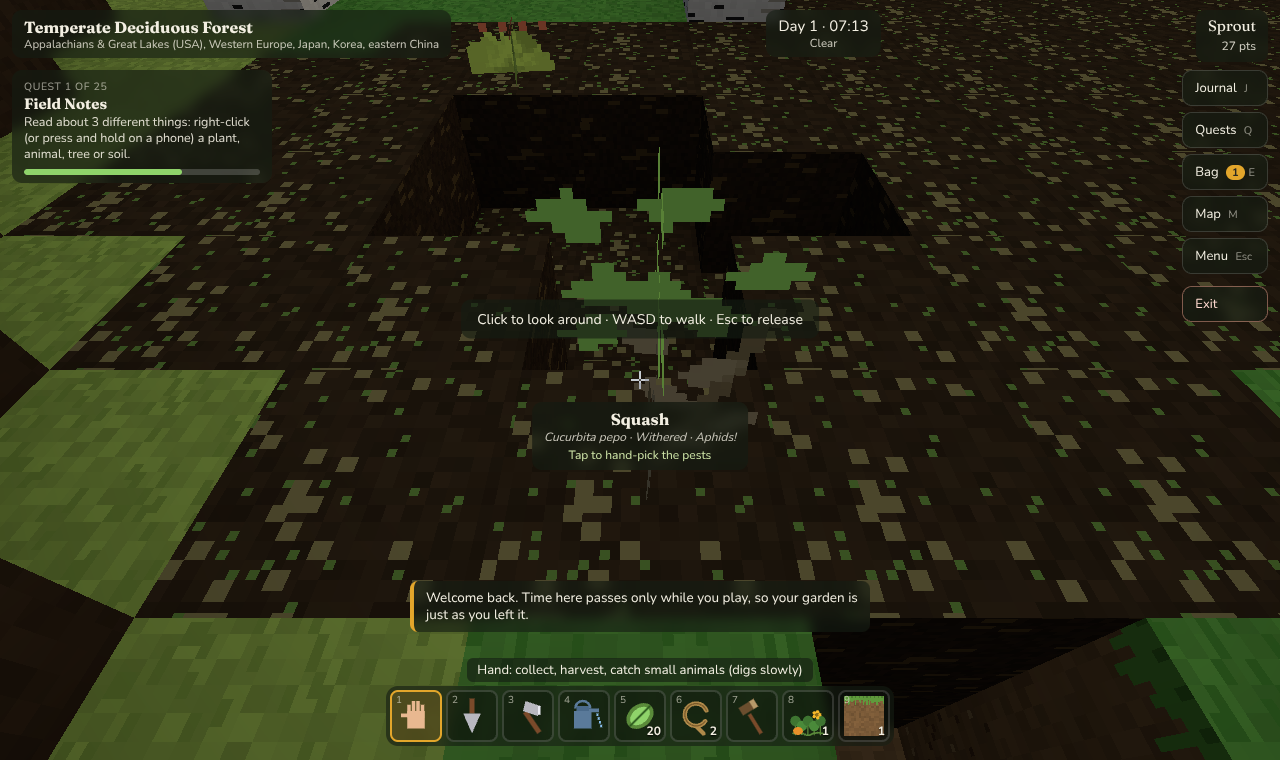
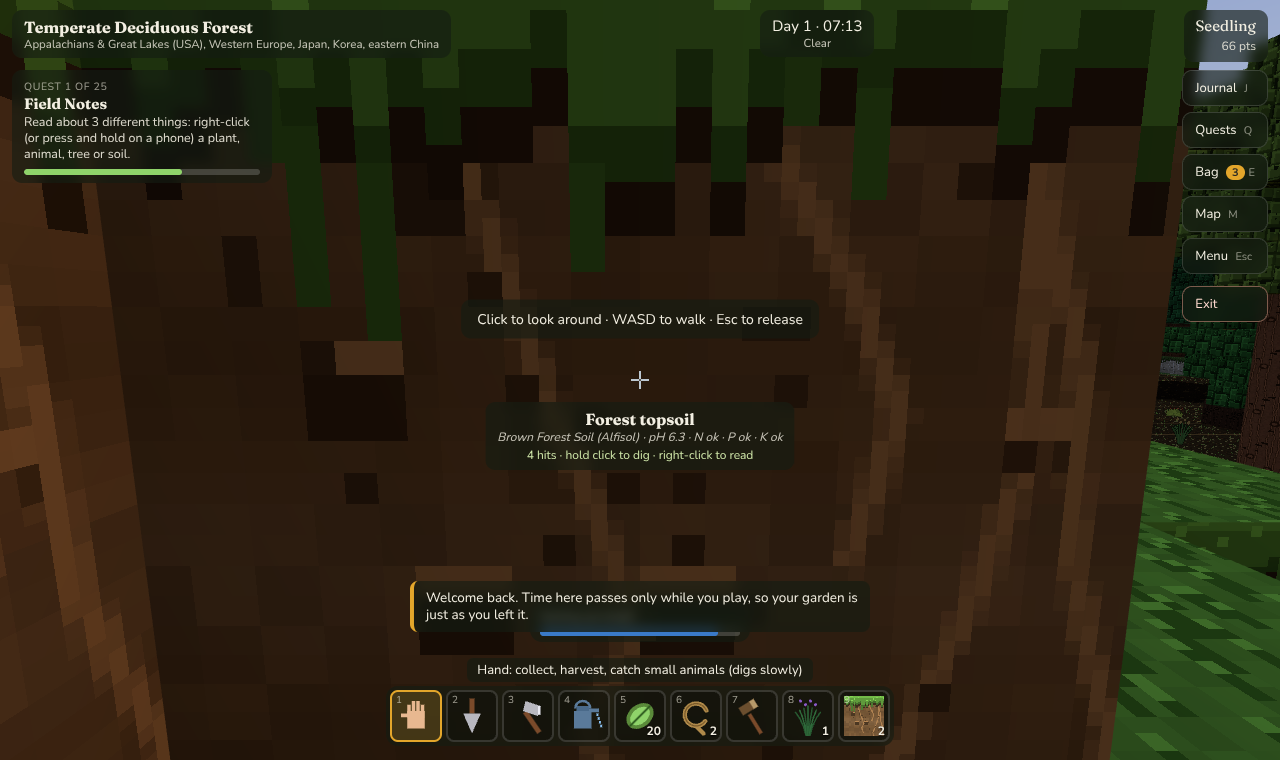
Visual overhaul: richer voxel textures, sun shadows, sky dome, glossy water
- Texture atlas drawn at 2x with new painters: grass tops with layered
  blades, thick dimensional grass fringes with a shadow line, soils with
  strata, pebbles and roots, bark with wavy ridges and knots, leaves as
  dense clusters of small shaded cubes, cobbled stone, rippled sand,
  grained planks
- Plant and sapling sprites get a thin cartoon outline
- Real PCF-soft sun shadows on desktop (terrain, plants, trees, folk and
  animals cast them); phones keep the baked ambient occlusion
- Gradient sky dome that follows the camera, warm haze in the fog and
  horizon, warmer low sun, slightly deeper view distance
- Water is now a glossy Phong surface with sun glints, a fresnel blend
  to the sky at grazing angles and more transparency looking down
- Antialiasing on when the device pixel ratio is low

Claude-Session: https://claude.ai/code/session_019QgsiEiaSj21K5LUM6uzhx

diff --git a/js/textures.js b/js/textures.js
@@ -1,7 +1,7 @@
 window.BC = window.BC || {};
 // Procedural pixel-art texture atlas. Everything the game shows is drawn here at load time.
 BC.Atlas = (function () {
-  const TILE = 32, COLS = 32;
+  const TILE = 32, COLS = 32, RES = 2; // painters work in 32-unit tiles, drawn at 2x so curves, blades and outlines stay crisp
   const tiles = {}; let count = 0;
   let canvas, ctx;
   function rng(seed) { let s = seed >>> 0 || 1; return () => (s = (s * 1664525 + 1013904223) >>> 0) / 4294967296; }
@@ -19,41 +19,43 @@ BC.Atlas = (function () {
     }
   }
   function speck(g, color, n, seed, size) { const r = rng(seed); g.fillStyle = color; for (let i = 0; i < n; i++) g.fillRect((r() * TILE) | 0, (r() * TILE) | 0, size || 1, size || 1); }
-  function grassTop(g, c1, c2, seed) { noise(g, c1, 0.18, seed, 2); const r = rng(seed + 7); g.fillStyle = c2; for (let i = 0; i < 90; i++) g.fillRect((r() * TILE) | 0, (r() * TILE) | 0, 1, 2); }
-  function grassSide(g, dirt, c1, seed) { noise(g, dirt, 0.2, seed, 2); const r = rng(seed + 3); g.fillStyle = c1; g.fillRect(0, 0, TILE, 3); for (let x = 0; x < TILE; x++) { const h = 3 + ((r() * 5) | 0); g.fillRect(x, 0, 1, h); } g.fillStyle = shade(c1, 0.8); for (let x = 0; x < TILE; x += 3) g.fillRect(x, 0, 1, 2); }
+  function grassTop(g, c1, c2, seed) { noise(g, c1, 0.14, seed, 2); const r = rng(seed + 7); g.fillStyle = shade(c1, 0.9); for (let i = 0; i < 10; i++) g.fillRect((r() * TILE) | 0, (r() * TILE) | 0, 3, 2); for (let i = 0; i < 150; i++) { const x = (r() * TILE) | 0, y = (r() * TILE) | 0, h = 2 + ((r() * 3) | 0); g.fillStyle = shade(c2, 0.82); g.fillRect(x, y, 1, h); g.fillStyle = shade(c1, 1.3); g.fillRect(x, y, 1, 1); } }
+  // layered soil: strata bands, pebbles with a lit top, fine roots and dark crumbs
+  function soil(g, base, seed) { noise(g, base, 0.16, seed, 2); const r = rng(seed + 11); for (let y = 0; y < TILE; y++) { const band = Math.sin(y * 0.45 + seed) * 0.07; if (band > 0) { g.fillStyle = `rgba(0,0,0,${band})`; g.fillRect(0, y, TILE, 1); } else { g.fillStyle = `rgba(255,255,255,${-band * 0.5})`; g.fillRect(0, y, TILE, 1); } } for (let i = 0; i < 8; i++) { const x = (r() * 29) | 0, y = (r() * 29) | 0, s = 2 + ((r() * 2) | 0); g.fillStyle = shade(base, 0.62); g.fillRect(x, y, s, s); g.fillStyle = shade(base, 1.5); g.fillRect(x, y, s, 1); } g.strokeStyle = shade(base, 1.45); g.lineWidth = 0.8; for (let i = 0; i < 4; i++) { let x = r() * TILE, y = r() * 8; g.beginPath(); g.moveTo(x, y); for (let k = 0; k < 5; k++) { x += (r() - 0.5) * 4; y += 3 + r() * 3; g.lineTo(x, y); } g.stroke(); if (r() < 0.6) { g.beginPath(); g.moveTo(x, y); g.lineTo(x + (r() - 0.5) * 7, y + 4); g.stroke(); } } speck(g, shade(base, 0.7), 28, seed + 12); }
+  function grassSide(g, dirt, c1, seed) { soil(g, dirt, seed); const r = rng(seed + 3); for (let x = 0; x < TILE; x++) { const h = 5 + ((r() * 4) | 0); g.fillStyle = shade(dirt, 0.5); g.fillRect(x, h, 1, 2); g.fillStyle = shade(c1, 0.7); g.fillRect(x, h - 1, 1, 1.5); g.fillStyle = c1; g.fillRect(x, 0, 1, h - 1); g.fillStyle = shade(c1, 1.22); g.fillRect(x, 0, 1, 1.5); if (r() < 0.22) { g.fillStyle = shade(c1, 0.8); g.fillRect(x, h, 1, 2 + ((r() * 4) | 0)); } } g.fillStyle = shade(c1, 1.4); for (let i = 0; i < 16; i++) g.fillRect((r() * TILE) | 0, (r() * 4) | 0, 1, 1); }
   function cracks(g, color, seed, n) { const r = rng(seed); g.strokeStyle = color; g.lineWidth = 1; for (let i = 0; i < n; i++) { g.beginPath(); let x = r() * TILE, y = r() * TILE; g.moveTo(x, y); for (let k = 0; k < 4; k++) { x += (r() - 0.5) * 10; y += (r() - 0.5) * 10; g.lineTo(x, y); } g.stroke(); } }
-  function bark(g, base, dark, seed) { noise(g, base, 0.15, seed, 1); const r = rng(seed + 1); g.fillStyle = dark; for (let i = 0; i < 14; i++) { const x = (r() * TILE) | 0; const y = (r() * TILE) | 0; g.fillRect(x, y, 1, 4 + ((r() * 14) | 0)); } g.fillStyle = shade(base, 1.2); for (let i = 0; i < 8; i++) { const x = (r() * TILE) | 0; g.fillRect(x, (r() * TILE) | 0, 1, 3 + ((r() * 8) | 0)); } }
+  function bark(g, base, dark, seed) { noise(g, base, 0.12, seed, 1); const r = rng(seed + 1); for (let i = 0; i < 7; i++) { let x = i * 4.6 + r() * 3; g.beginPath(); g.moveTo(x, -1); for (let y = 0; y <= TILE + 1; y += 4) { x += (r() - 0.5) * 1.8; g.lineTo(x, y); } g.strokeStyle = dark; g.lineWidth = 1.3; g.stroke(); g.save(); g.translate(1.1, 0); g.strokeStyle = shade(base, 1.28); g.lineWidth = 0.7; g.stroke(); g.restore(); } for (let i = 0; i < 2; i++) { const x = 4 + r() * 24, y = 4 + r() * 24; g.fillStyle = dark; g.beginPath(); g.ellipse(x, y, 2.8, 1.9, 0, 0, 6.283); g.fill(); g.fillStyle = shade(base, 1.15); g.beginPath(); g.ellipse(x, y, 1.5, 0.9, 0, 0, 6.283); g.fill(); } g.fillStyle = shade(dark, 0.8); for (let i = 0; i < 6; i++) g.fillRect((r() * TILE) | 0, (r() * TILE) | 0, 2 + ((r() * 3) | 0), 1); }
   function rings(g, base, dark) { noise(g, base, 0.08, 5, 1); g.strokeStyle = dark; g.lineWidth = 1; for (let rr = 3; rr < 15; rr += 3) { g.beginPath(); g.arc(16, 16, rr, 0, Math.PI * 2); g.stroke(); } g.strokeStyle = shade(dark, 0.7); g.strokeRect(0.5, 0.5, 31, 31); }
-  function leaves(g, color, seed, fruit) { noise(g, color, 0.3, seed, 2); const r = rng(seed + 9); g.fillStyle = shade(color, 0.68); for (let i = 0; i < 34; i++) g.fillRect((r() * TILE) | 0, (r() * TILE) | 0, 2, 2); g.fillStyle = shade(color, 1.35); for (let i = 0; i < 30; i++) g.fillRect((r() * TILE) | 0, (r() * TILE) | 0, 2, 1); if (fruit) { for (let i = 0; i < 7; i++) { const x = 2 + ((r() * 27) | 0), y = 2 + ((r() * 27) | 0); g.fillStyle = fruit; g.beginPath(); g.arc(x, y, 2, 0, 6.283); g.fill(); g.fillStyle = 'rgba(255,255,255,0.45)'; g.fillRect(x - 1, y - 1, 1, 1); } } }
-  function planks(g, base, seam) { base = base || '#b08a52'; noise(g, base, 0.12, 44, 1); g.fillStyle = seam || shade(base, 0.62); for (let y = 7; y < TILE; y += 8) g.fillRect(0, y, TILE, 1); g.fillStyle = shade(base, 0.78); for (let i = 0; i < 6; i++) g.fillRect(3 + i * 5, 2 + (i % 2) * 8, 1, 3); }
+  function leaves(g, color, seed, fruit) { const r = rng(seed + 9); g.fillStyle = shade(color, 0.42); g.fillRect(0, 0, TILE, TILE); const order = []; for (let cy = -1; cy < 5; cy++) for (let cx = -1; cx < 5; cx++) order.push([cx, cy]); order.forEach(([cx, cy]) => { const x = cx * 8 + (r() - 0.5) * 3, y = cy * 8 + (r() - 0.5) * 3; const k = 0.82 + r() * 0.34; g.fillStyle = shade(color, k); g.fillRect(x, y, 8, 8); g.fillStyle = shade(color, k * 1.3); g.fillRect(x, y, 8, 1.5); g.fillRect(x, y, 1.5, 8); g.fillStyle = shade(color, k * 0.66); g.fillRect(x, y + 6.5, 8, 1.5); g.fillRect(x + 6.5, y, 1.5, 8); }); speck(g, shade(color, 1.45), 26, seed + 10); speck(g, shade(color, 0.55), 14, seed + 13); g.fillStyle = shade(color, 0.38); for (let i = 0; i < 4; i++) g.fillRect((r() * 28) | 0, (r() * 28) | 0, 2 + ((r() * 2) | 0), 2); if (fruit) { for (let i = 0; i < 7; i++) { const x = 2 + ((r() * 27) | 0), y = 2 + ((r() * 27) | 0); g.fillStyle = fruit; g.beginPath(); g.arc(x, y, 2, 0, 6.283); g.fill(); g.fillStyle = 'rgba(255,255,255,0.45)'; g.fillRect(x - 1, y - 1, 1, 1); } } }
+  function planks(g, base, seam) { base = base || '#b08a52'; noise(g, base, 0.1, 44, 1); { const r = rng(45); g.strokeStyle = shade(base, 0.86); g.lineWidth = 0.6; for (let row = 0; row < 4; row++) for (let i = 0; i < 3; i++) { const y0 = row * 8 + 1.5 + i * 2.2; g.beginPath(); g.moveTo(0, y0); for (let x = 4; x <= TILE; x += 4) g.lineTo(x, y0 + (r() - 0.5) * 1.2); g.stroke(); } } g.fillStyle = seam || shade(base, 0.6); for (let y = 7; y < TILE; y += 8) g.fillRect(0, y, TILE, 1); g.fillStyle = shade(base, 1.18); for (let y = 0; y < TILE; y += 8) g.fillRect(0, y, TILE, 0.8); g.fillStyle = shade(base, 0.78); for (let i = 0; i < 6; i++) g.fillRect(3 + i * 5, 2 + (i % 2) * 8, 1, 3); }
   function clear(g) { g.clearRect(0, 0, TILE, TILE); }
 
   const BLOCK_PAINTERS = {
     grass_temperate: g => grassTop(g, '#5f9a3c', '#4d8a30', 1),
     grass_side_alfisol: g => grassSide(g, '#7a5a38', '#5f9a3c', 2),
-    alfisol: g => { noise(g, '#7a5a38', 0.22, 3, 2); speck(g, '#5a3f26', 40, 4); speck(g, '#9a7a50', 20, 5); },
+    alfisol: g => soil(g, '#7a5a38', 3),
     grass_prairie: g => grassTop(g, '#9cb04a', '#8aa040', 6),
     grass_side_mollisol: g => grassSide(g, '#3a2c1e', '#9cb04a', 7),
-    mollisol: g => { noise(g, '#3a2c1e', 0.25, 8, 2); speck(g, '#1e160e', 50, 9); speck(g, '#5a4a32', 20, 10); },
-    sand: g => { noise(g, '#dcc07e', 0.1, 11, 1); speck(g, '#c9a86a', 60, 12); speck(g, '#f0e0a8', 30, 13); },
+    mollisol: g => soil(g, '#3e2f20', 8),
+    sand: g => { noise(g, '#dcc07e', 0.08, 11, 1); const r = rng(12); for (let y = 2; y < TILE; y += 5) { g.beginPath(); g.moveTo(0, y); for (let x = 4; x <= TILE; x += 4) g.lineTo(x, y + Math.sin(x * 0.6 + y) * 1.2); g.strokeStyle = 'rgba(255,245,210,0.55)'; g.lineWidth = 1; g.stroke(); g.save(); g.translate(0, 1.2); g.strokeStyle = 'rgba(120,90,40,0.28)'; g.stroke(); g.restore(); } speck(g, '#c9a86a', 30, 13); },
     caliche: g => { noise(g, '#e6dcc2', 0.08, 14, 2); cracks(g, '#c8bca0', 15, 5); speck(g, '#f8f4e8', 20, 16); },
     litter: g => { noise(g, '#5a4028', 0.25, 17, 2); speck(g, '#8a6a2a', 40, 18, 2); speck(g, '#3a7a2a', 15, 19, 2); speck(g, '#2a1a0a', 30, 20); },
     oxisol_side: g => grassSide(g, '#a04a2a', '#5a4028', 21),
-    oxisol: g => { noise(g, '#a04a2a', 0.2, 22, 2); speck(g, '#7a3018', 40, 23); speck(g, '#c86a40', 25, 24); },
+    oxisol: g => soil(g, '#a04a2a', 22),
     moss: g => { noise(g, '#4f6e3a', 0.25, 25, 2); speck(g, '#7a9a4a', 50, 26, 2); speck(g, '#8a6a3a', 20, 27); },
     podzol_side: g => grassSide(g, '#cfc9bc', '#4f6e3a', 28),
     podzol_e: g => { noise(g, '#cfc9bc', 0.1, 29, 1); speck(g, '#aaa49a', 40, 30); speck(g, '#eeeae0', 30, 31); },
-    podzol_b: g => { noise(g, '#b0602a', 0.25, 32, 2); speck(g, '#7a3a10', 40, 33); speck(g, '#d88a4a', 30, 34); },
+    podzol_b: g => soil(g, '#b0602a', 32),
     peat_top: g => { noise(g, '#3a2a1a', 0.3, 35, 2); speck(g, '#6a8a3a', 40, 36); speck(g, '#8a7a4a', 25, 37, 2); },
     peat: g => { noise(g, '#2a1f14', 0.3, 38, 1); const r = rng(39); g.fillStyle = '#4a3a22'; for (let i = 0; i < 30; i++) g.fillRect((r() * TILE) | 0, (r() * TILE) | 0, 3, 1); },
     gley: g => { noise(g, '#6e7a78', 0.12, 40, 2); speck(g, '#b06a3a', 15, 41, 2); speck(g, '#5a6a70', 30, 42); },
-    stone: g => { noise(g, '#7d7d7d', 0.18, 43, 2); cracks(g, '#5a5a5a', 44, 4); speck(g, '#9a9a9a', 25, 45); },
+    stone: g => { noise(g, '#7d7d7d', 0.12, 43, 2); const r = rng(44); for (let i = 0; i < 9; i++) { const x = r() * TILE, y = r() * TILE, rx = 3 + r() * 5, ry = 2 + r() * 3; g.fillStyle = shade('#7d7d7d', 0.84 + r() * 0.32); g.beginPath(); g.ellipse(x, y, rx, ry, r() * 3, 0, 6.283); g.fill(); g.fillStyle = 'rgba(255,255,255,0.16)'; g.beginPath(); g.ellipse(x - 0.5, y - ry * 0.5, rx * 0.7, 1, 0, 0, 6.283); g.fill(); } cracks(g, '#555555', 45, 4); },
     limestone: g => { noise(g, '#d9c69c', 0.12, 171, 2); g.fillStyle = '#b39f74'; g.fillRect(0, 0, TILE, 1); g.fillRect(0, 16, TILE, 1); g.fillRect(14, 0, 1, 16); g.fillRect(4, 16, 1, 16); g.fillRect(24, 16, 1, 16); speck(g, '#eadbb6', 18, 172); speck(g, '#a08a5a', 10, 173); },
     casing: g => { noise(g, '#f1e9d6', 0.05, 174, 2); g.fillStyle = '#d6cbb0'; g.fillRect(0, 0, TILE, 1); g.fillRect(0, 16, TILE, 1); g.fillRect(10, 0, 1, 16); g.fillRect(22, 16, 1, 16); },
     granite: g => { noise(g, '#9a5c54', 0.22, 175, 1); speck(g, '#2b2626', 40, 176); speck(g, '#e3c6bd', 30, 177); speck(g, '#6a3a34', 20, 178); },
     inca: g => { noise(g, '#8e8b82', 0.1, 179, 2); g.fillStyle = '#45433d'; const r = rng(180); const rows = [0, 9, 19, 28, TILE]; for (let i = 0; i < 4; i++) { const y = rows[i], hgt = rows[i + 1] - y; g.fillRect(0, y, TILE, 1); let x = Math.floor(r() * 7); while (x < TILE) { g.fillRect(x, y, 1, hgt); x += 7 + Math.floor(r() * 8); } } speck(g, '#b4b1a8', 16, 181); },
     gravel: g => { noise(g, '#8a8578', 0.3, 46, 3); speck(g, '#5a5550', 30, 47, 2); },
-    compost: g => { noise(g, '#3a2a1a', 0.3, 48, 2); speck(g, '#8a6a2a', 25, 49); speck(g, '#5a8a3a', 10, 50); speck(g, '#1a100a', 40, 51); },
+    compost: g => { soil(g, '#3a2a1a', 48); speck(g, '#8a6a2a', 25, 49); speck(g, '#5a8a3a', 10, 50); },
     water: g => { noise(g, '#3a7ac8', 0.1, 52, 2); const r = rng(53); g.fillStyle = '#7ab8f0'; for (let i = 0; i < 12; i++) g.fillRect((r() * TILE) | 0, (r() * TILE) | 0, 4 + ((r() * 6) | 0), 1); },
     planks: g => planks(g),
     planks_birch: g => planks(g, '#e0d0a8'), planks_spruce: g => planks(g, '#9a6a3a'), planks_tropical: g => planks(g, '#a85a3a'), planks_cypress: g => planks(g, '#c49460'), planks_mesquite: g => planks(g, '#6a4a30'), planks_paloverde: g => planks(g, '#b8c070'), planks_palm: g => planks(g, '#c8a870'),
@@ -212,14 +214,18 @@ BC.Atlas = (function () {
   }
 
   function build() {
-    canvas = document.createElement('canvas'); canvas.width = canvas.height = TILE * COLS; ctx = canvas.getContext('2d');
+    canvas = document.createElement('canvas'); canvas.width = canvas.height = TILE * COLS * RES; ctx = canvas.getContext('2d');
     ctx.imageSmoothingEnabled = false;
-    const add = (name, painter) => { const i = count++; const x = (i % COLS) * TILE, y = Math.floor(i / COLS) * TILE; ctx.save(); ctx.translate(x, y); ctx.beginPath(); ctx.rect(0, 0, TILE, TILE); ctx.clip(); painter(ctx); ctx.restore(); tiles[name] = i; return i; };
+    const add = (name, painter) => { const i = count++; const x = (i % COLS) * TILE * RES, y = Math.floor(i / COLS) * TILE * RES; ctx.save(); ctx.translate(x, y); ctx.scale(RES, RES); ctx.beginPath(); ctx.rect(0, 0, TILE, TILE); ctx.clip(); painter(ctx); ctx.restore(); tiles[name] = i; return i; };
+    // cartoon outline: a thin dark edge around every opaque shape of a sprite tile
+    const outline = i => { const n = TILE * RES, px = (i % COLS) * n, py = Math.floor(i / COLS) * n; const img = ctx.getImageData(px, py, n, n); const d = img.data; const out = new Uint8ClampedArray(d); const A = (x, y) => (x < 0 || y < 0 || x >= n || y >= n) ? 0 : d[(y * n + x) * 4 + 3];
+      for (let y = 0; y < n; y++) for (let x = 0; x < n; x++) { const o = (y * n + x) * 4; if (d[o + 3] > 40) continue; let nb = -1; if (A(x + 1, y) > 40) nb = (y * n + x + 1) * 4; else if (A(x - 1, y) > 40) nb = (y * n + x - 1) * 4; else if (A(x, y + 1) > 40) nb = ((y + 1) * n + x) * 4; else if (A(x, y - 1) > 40) nb = ((y - 1) * n + x) * 4; if (nb < 0) continue; out[o] = d[nb] * 0.42; out[o + 1] = d[nb + 1] * 0.42; out[o + 2] = d[nb + 2] * 0.42; out[o + 3] = 230; }
+      img.data.set(out); ctx.putImageData(img, px, py); };
     Object.keys(BLOCK_PAINTERS).forEach(n => add(n, BLOCK_PAINTERS[n]));
     BC.TREES.forEach(t => { if (t.leaf) add('leaves_' + t.id, g => leaves(g, t.leaf, hash(t.id), t.fruitColor)); });
-    BC.PLANTS.forEach(p => { for (let s = 0; s < 3; s++) add(p.id + '_' + s, g => drawPlant(g, p, s, TILE)); });
+    BC.PLANTS.forEach(p => { for (let s = 0; s < 3; s++) outline(add(p.id + '_' + s, g => drawPlant(g, p, s, TILE))); });
     const saps = [['sapling_broad', { id: 'sb', form: 'sapling', art: { leaf: '#4f8a32' } }], ['sapling_conifer', { id: 'sc', form: 'sapling_conifer', art: { leaf: '#2e5a3a' } }], ['sapling_cactus', { id: 'sx', form: 'sapling_cactus', art: { leaf: '#5a8a4a' } }]];
-    saps.forEach(([n, p]) => { for (let s = 0; s < 3; s++) add(n + '_' + s, g => drawPlant(g, p, s, TILE)); });
+    saps.forEach(([n, p]) => { for (let s = 0; s < 3; s++) outline(add(n + '_' + s, g => drawPlant(g, p, s, TILE))); });
     add('withered', g => drawPlant(g, { id: 'w', form: 'flower', petals: 5, art: { stem: '#7a6a4a', leaf: '#9a8a6a' } }, 2, TILE, true));
     const tex = new THREE.CanvasTexture(canvas); tex.magFilter = THREE.NearestFilter; tex.minFilter = THREE.NearestFilter; tex.generateMipmaps = false; tex.colorSpace = THREE.SRGBColorSpace;
     return { texture: tex, canvas };
@@ -227,7 +233,7 @@ BC.Atlas = (function () {
   // UV rect for a tile, inset by a little to stop bleeding.
   function uv(name) { const i = tiles[name]; if (i === undefined) throw new Error('missing tile ' + name); const e = 0.6 / (TILE * COLS); const u0 = (i % COLS) / COLS + e, v0 = 1 - Math.floor(i / COLS) / COLS - e; return [u0, v0, u0 + 1 / COLS - 2 * e, v0 - 1 / COLS + 2 * e]; }
   function spriteCanvas(p, stage, size, withered) { const c = document.createElement('canvas'); c.width = c.height = size; const g = c.getContext('2d'); g.imageSmoothingEnabled = false; drawPlant(g, p, stage, size, withered); return c; }
-  function tileCanvas(name, size) { const c = document.createElement('canvas'); c.width = c.height = size; const g = c.getContext('2d'); g.imageSmoothingEnabled = false; const i = tiles[name]; g.drawImage(canvas, (i % COLS) * TILE, Math.floor(i / COLS) * TILE, TILE, TILE, 0, 0, size, size); return c; }
+  function tileCanvas(name, size) { const c = document.createElement('canvas'); c.width = c.height = size; const g = c.getContext('2d'); g.imageSmoothingEnabled = false; const i = tiles[name]; g.drawImage(canvas, (i % COLS) * TILE * RES, Math.floor(i / COLS) * TILE * RES, TILE * RES, TILE * RES, 0, 0, size, size); return c; }
   // Icon for an ingredient: a glyph per group tinted by a stable colour from its name.
   function ingredientCanvas(ing, size) { const c = document.createElement('canvas'); c.width = c.height = size; const g = c.getContext('2d'); const k = size / 32; const h = hash(ing.id); const col = `hsl(${h % 360},${45 + (h >> 8) % 30}%,${38 + (h >> 16) % 20}%)`; g.save(); g.scale(k, k);
     if (ing.group === 'control') { g.fillStyle = '#e8eef0'; g.fillRect(11, 4, 10, 6); g.fillStyle = col; g.beginPath(); g.moveTo(8, 10); g.lineTo(24, 10); g.lineTo(26, 30); g.lineTo(6, 30); g.closePath(); g.fill(); g.fillStyle = 'rgba(255,255,255,0.35)'; g.fillRect(9, 13, 3, 14); }

diff --git a/js/main.js b/js/main.js
@@ -3,7 +3,7 @@ window.BC = window.BC || {};
 BC.Game = class Game {
   constructor() {
     this.canvas = document.getElementById('gl');
-    this.renderer = new THREE.WebGLRenderer({ canvas: this.canvas, antialias: false, powerPreference: 'high-performance' });
+    this.renderer = new THREE.WebGLRenderer({ canvas: this.canvas, antialias: (window.devicePixelRatio || 1) < 1.5, powerPreference: 'high-performance' });
     this.renderer.outputColorSpace = THREE.SRGBColorSpace;
     this.scene = new THREE.Scene(); this.camera = new THREE.PerspectiveCamera(72, 1, 0.1, 260);
     this.player = new BC.Player(this); this.ui = new BC.UI(this); this.animals = new BC.Animals(this); this.npcs = new BC.NPCs(this); this.boats = new BC.Boats(this); this.net = new BC.Net(this); this.hires = []; this.fishing = null;
@@ -26,13 +26,19 @@ BC.Game = class Game {
     const atlas = BC.Atlas.build(); this.atlas = atlas.texture;
     this.matSolid = new THREE.MeshLambertMaterial({ map: this.atlas, vertexColors: true });
     this.matPlant = new THREE.MeshLambertMaterial({ map: this.atlas, vertexColors: true, alphaTest: 0.5, side: THREE.DoubleSide });
-    this.waterTex = BC.Atlas.waterTexture(); this.matWater = new THREE.MeshLambertMaterial({ map: this.waterTex, vertexColors: true, transparent: true, opacity: 0.72, depthWrite: false });
-    this.matWater.onBeforeCompile = sh => { sh.uniforms.uTime = { value: 0 }; this.matWater.userData.shader = sh;
+    this.waterTex = BC.Atlas.waterTexture(); this.matWater = new THREE.MeshPhongMaterial({ map: this.waterTex, vertexColors: true, transparent: true, opacity: 0.66, depthWrite: false, specular: new THREE.Color(0x9fc3e6), shininess: 120 });
+    this.matWater.onBeforeCompile = sh => { sh.uniforms.uTime = { value: 0 }; sh.uniforms.uSky = { value: new THREE.Color(0x8fc4ea) }; this.matWater.userData.shader = sh;
       sh.vertexShader = sh.vertexShader.replace('#include <common>', '#include <common>\nattribute vec2 flow; uniform float uTime; varying vec2 vFlow;').replace('#include <uv_vertex>', '#include <uv_vertex>\nvMapUv += flow * uTime * 0.35; vFlow = flow;').replace('#include <begin_vertex>', '#include <begin_vertex>\ntransformed.y += sin(position.x * 1.9 + uTime * 2.2 + position.z * 1.3) * 0.035 * (1.0 + length(flow) * 2.0);');
-      sh.fragmentShader = sh.fragmentShader.replace('#include <common>', '#include <common>\nvarying vec2 vFlow;').replace('#include <dithering_fragment>', '#include <dithering_fragment>\ngl_FragColor.rgb += vec3(0.08, 0.1, 0.1) * min(1.0, length(vFlow) * 1.2);'); };
-    this.hemi = new THREE.HemisphereLight(0xcfe3ff, 0x6a5a40, 1.05); this.scene.add(this.hemi);
-    this.sun = new THREE.DirectionalLight(0xfff4e0, 1.25); this.scene.add(this.sun); this.scene.add(this.sun.target);
-    this.scene.fog = new THREE.Fog(0x8fc4ea, 40, 104); this.scene.background = new THREE.Color(0x8fc4ea);
+      sh.fragmentShader = sh.fragmentShader.replace('#include <common>', '#include <common>\nvarying vec2 vFlow; uniform vec3 uSky;').replace('#include <dithering_fragment>', '#include <dithering_fragment>\ngl_FragColor.rgb += vec3(0.08, 0.1, 0.1) * min(1.0, length(vFlow) * 1.2);\n{ vec3 vd = normalize(vViewPosition); float fr = pow(1.0 - clamp(dot(vd, normalize(vNormal)), 0.0, 1.0), 2.5); gl_FragColor.rgb = mix(gl_FragColor.rgb, uSky, fr * 0.6); gl_FragColor.a = mix(gl_FragColor.a, 0.97, fr * 0.85); }'); };
+    this.hemi = new THREE.HemisphereLight(0xc6dcff, 0x7a6244, 1.05); this.scene.add(this.hemi);
+    this.sun = new THREE.DirectionalLight(0xffe6c2, 1.35); this.scene.add(this.sun); this.scene.add(this.sun.target);
+    this.scene.fog = new THREE.Fog(0x8fc4ea, 44, 118); this.scene.background = new THREE.Color(0x8fc4ea);
+    // gradient sky dome that follows the camera: haze at the horizon, deeper blue overhead
+    this.skyMat = new THREE.ShaderMaterial({ uniforms: { top: { value: new THREE.Color(0x3a74d0) }, bottom: { value: new THREE.Color(0x8fc4ea) } }, vertexShader: 'varying vec3 vW; void main(){ vW = normalize(position); gl_Position = projectionMatrix * modelViewMatrix * vec4(position, 1.0); }', fragmentShader: 'uniform vec3 top; uniform vec3 bottom; varying vec3 vW; void main(){ float t = smoothstep(-0.03, 0.55, vW.y); gl_FragColor = vec4(mix(bottom, top, t), 1.0);\n#include <colorspace_fragment>\n}', side: THREE.BackSide, depthWrite: false, fog: false });
+    this.skyDome = new THREE.Mesh(new THREE.SphereGeometry(232, 24, 12), this.skyMat); this.skyDome.renderOrder = -10; this.skyDome.frustumCulled = false; this.scene.add(this.skyDome);
+    // real sun shadows on desktop; phones keep the baked ambient occlusion only
+    this.shadows = !this.player.touch && (navigator.hardwareConcurrency || 4) >= 4; BC.SHADOWS = this.shadows;
+    if (this.shadows) { this.renderer.shadowMap.enabled = true; this.renderer.shadowMap.type = THREE.PCFSoftShadowMap; this.sun.castShadow = true; this.sun.shadow.mapSize.set(2048, 2048); const sc = this.sun.shadow.camera; sc.left = -46; sc.right = 46; sc.top = 46; sc.bottom = -46; sc.near = 1; sc.far = 330; sc.updateProjectionMatrix(); this.sun.shadow.bias = -0.0004; this.sun.shadow.normalBias = 0.05; this.depthPlant = new THREE.MeshDepthMaterial({ depthPacking: THREE.RGBADepthPacking, map: this.atlas, alphaTest: 0.5 }); }
     this.sunMesh = new THREE.Mesh(new THREE.SphereGeometry(4, 12, 12), new THREE.MeshBasicMaterial({ color: 0xfff1c0, fog: false })); this.scene.add(this.sunMesh);
     this.moonMesh = new THREE.Mesh(new THREE.SphereGeometry(2.5, 12, 12), new THREE.MeshBasicMaterial({ color: 0xdde6f5, fog: false })); this.scene.add(this.moonMesh);
     this.clouds = new THREE.Group(); const cm = new THREE.MeshBasicMaterial({ color: 0xffffff, transparent: true, opacity: 0.8 });
@@ -76,7 +82,7 @@ BC.Game = class Game {
   rebuildChunk(ci) {
     const cx = ci % this.world.CX, cz = Math.floor(ci / this.world.CX); let c = this.chunks.get(ci); if (!c) { c = {}; this.chunks.set(ci, c); }
     const res = BC.Mesher.buildChunk(this.world, cx, cz); const pg = BC.Mesher.buildPlants(this.world, cx, cz);
-    const swap = (k, geo, mat) => { if (c[k]) { this.scene.remove(c[k]); c[k].geometry.dispose(); c[k] = null; } if (geo) { const m = new THREE.Mesh(geo, mat); m.frustumCulled = true; this.scene.add(m); c[k] = m; } };
+    const swap = (k, geo, mat) => { if (c[k]) { this.scene.remove(c[k]); c[k].geometry.dispose(); c[k] = null; } if (geo) { const m = new THREE.Mesh(geo, mat); m.frustumCulled = true; if (this.shadows && k !== 'water') { m.castShadow = true; m.receiveShadow = true; if (mat === this.matPlant) m.customDepthMaterial = this.depthPlant; } this.scene.add(m); c[k] = m; } };
     swap('solid', res.solid, this.matSolid); swap('water', res.water, this.matWater); swap('plants', pg, this.matPlant); swap('cutout', res.cutout, this.matPlant);
   }
   spawnAnimals(list) { list.forEach(a => { const e = this.animals.spawn(a.id, a.x, a.z, a.uid); if (e && a.tether) e.tether = a.tether; }); this.npcs.spawnFromWorld(); }
@@ -171,7 +177,7 @@ BC.Game = class Game {
   peerPositions() { const out = []; this.peers.forEach(pe => out.push(pe.group.position)); return out; }
   buildAvatar(name, color) {
     const g = new THREE.Group(); const shirt = new THREE.Color(color), skin = new THREE.Color(0xe8b890), pants = new THREE.Color(0x3a4a6a);
-    const box = (w, hh, d, x, y, z, c) => { const m = new THREE.Mesh(new THREE.BoxGeometry(w, hh, d), new THREE.MeshLambertMaterial({ color: c })); m.position.set(x, y, z); g.add(m); };
+    const box = (w, hh, d, x, y, z, c) => { const m = new THREE.Mesh(new THREE.BoxGeometry(w, hh, d), new THREE.MeshLambertMaterial({ color: c })); m.position.set(x, y, z); m.castShadow = !!BC.SHADOWS; g.add(m); };
     box(0.5, 0.65, 0.3, 0, 1.0, 0, shirt); box(0.45, 0.45, 0.45, 0, 1.55, 0, skin); box(0.18, 0.7, 0.22, -0.16, 0.35, 0, pants); box(0.18, 0.7, 0.22, 0.16, 0.35, 0, pants); box(0.14, 0.6, 0.2, -0.33, 1.0, 0, shirt); box(0.14, 0.6, 0.2, 0.33, 1.0, 0, shirt);
     const c = document.createElement('canvas'); c.width = 256; c.height = 64; const x = c.getContext('2d'); x.fillStyle = 'rgba(20,28,18,0.7)'; x.fillRect(0, 0, 256, 64); x.fillStyle = '#f3efe2'; x.font = 'bold 34px Nunito, sans-serif'; x.textAlign = 'center'; x.textBaseline = 'middle'; x.fillText(name.slice(0, 14), 128, 32);
     const tex = new THREE.CanvasTexture(c); const sp = new THREE.Sprite(new THREE.SpriteMaterial({ map: tex, depthTest: false })); sp.scale.set(1.6, 0.4, 1); sp.position.y = 2.1; g.add(sp);
@@ -213,9 +219,10 @@ BC.Game = class Game {
     const col = elev > 0.15 ? skyDay.clone().lerp(dusk, BC.util.clamp(1 - (elev - 0.15) / 0.25, 0, 1) * 0.6) : night.clone().lerp(dusk, BC.util.clamp((elev + 0.15) / 0.3, 0, 1));
     if (this.weather.raining) col.lerp(new THREE.Color(0x6a7a86), 0.6);
     const under = this.player.headInWater; if (under) { col.set(0x1e5c9a).lerp(new THREE.Color(0x3a86c8), day * 0.6); }
-    this.scene.background.copy(col); this.scene.fog.color.copy(col); this.scene.fog.near = under ? 1 : this.weather.raining ? 20 : 40; this.scene.fog.far = under ? 22 : this.weather.raining ? 80 : 104;
+    const haze = under ? col.clone() : col.clone().lerp(new THREE.Color(0xf6e9d2), day * 0.22); const zen = under ? col.clone() : col.clone().lerp(new THREE.Color(0x2d62c9), day * 0.6); if (this.weather.raining && !under) zen.lerp(new THREE.Color(0x4a5a68), 0.5);
+    this.scene.background.copy(haze); this.scene.fog.color.copy(haze); this.scene.fog.near = under ? 1 : this.weather.raining ? 20 : 44; this.scene.fog.far = under ? 22 : this.weather.raining ? 80 : 118; this.skyMat.uniforms.bottom.value.copy(haze); this.skyMat.uniforms.top.value.copy(zen); this.skyDome.position.copy(this.camera.position); { const sh = this.matWater.userData.shader; if (sh) sh.uniforms.uSky.value.copy(haze); }
     { const ov = this.ui.$('underwater'); const show = under || (this.player.inWater && this.camera.position.y < this.world.waterSurface(Math.floor(this.player.pos.x), Math.floor(this.player.pos.z)) + 1); if (ov.hidden === show) ov.hidden = !show; }
-    this.sun.intensity = 0.25 + day * (this.weather.raining ? 0.6 : 1.1); this.hemi.intensity = 0.4 + day * 0.75;
+    this.sun.intensity = 0.25 + day * (this.weather.raining ? 0.6 : 1.2); this.hemi.intensity = 0.42 + day * 0.78; this.sun.color.setHex(elev < 0.3 ? 0xffc890 : 0xffe6c2);
     const p = this.player.pos; const sx = Math.cos(ang) * 120, sy = Math.sin(ang) * 120; this.sun.position.set(p.x + sx, p.y + Math.max(sy, 10), p.z + 40); this.sun.target.position.set(p.x, p.y, p.z);
     this.sunMesh.position.set(p.x + sx * 1.6, p.y + sy * 1.6, p.z + 60); this.moonMesh.position.set(p.x - sx * 1.6, p.y - sy * 1.6, p.z - 60); this.sunMesh.visible = elev > -0.1; this.moonMesh.visible = elev < 0.1;
     this.clouds.position.x = (this.time.t * 0.4) % 120 - 60; this.clouds.position.z = p.z - 150 + ((p.z + 150) % 1);

diff --git a/js/animals.js b/js/animals.js
@@ -19,7 +19,7 @@ BC.Animals = class Animals {
     if (def.id === 'deer' || def.id === 'moose' || def.id === 'bison') box(0.08, 0.2, 0.06, 0, legH + bh * 0.8, -bl / 2 - 0.02, c.accent);
     if (def.id === 'cottontail' || def.id === 'hare') box(0.12, 0.12, 0.12, 0, legH + bh * 0.7, -bl / 2 - 0.04, c.accent);
     if (def.id === 'dart_frog' || def.id === 'lizard' || def.id === 'frog') box(bw * 0.9, bh * 0.4, bl * 0.4, 0, legH + bh * 0.9, -bl * 0.1, c.accent);
-    const merged = BC.mergeGeometries(geos); merged.scale(s, s, s); const m = new THREE.Mesh(merged, this.mat); m.castShadow = false; return m;
+    const merged = BC.mergeGeometries(geos); merged.scale(s, s, s); const m = new THREE.Mesh(merged, this.mat); m.castShadow = !!BC.SHADOWS; return m;
   }
   spawn(id, x, z, uid) {
     const def = BC.ANIMAL_BY_ID[id]; if (!def) return null; const w = this.game.world; const y = w.top(x | 0, z | 0) + 1;
